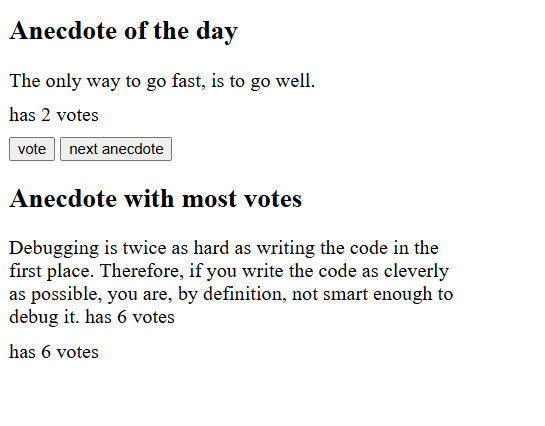
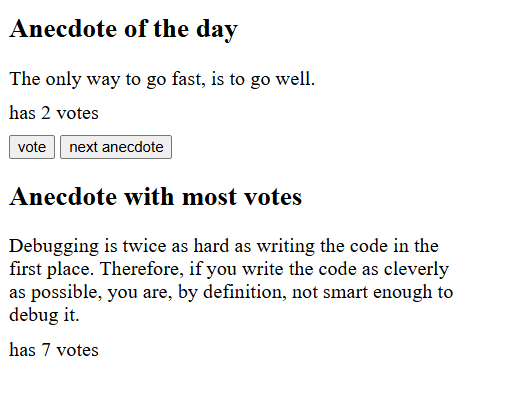
small fix to anecdotes

diff --git a/part1/anecdotes/src/App.jsx b/part1/anecdotes/src/App.jsx
@@ -53,7 +53,7 @@ const App = () => {
 
       {votes[mostVotedIndex] > 0 ? (
         <div>
-          <Text value={`${anecdotes[mostVotedIndex]} has ${votes[mostVotedIndex]} votes`} />
+          <Text value={`${anecdotes[mostVotedIndex]}`} />
           <Text value={`has ${votes[mostVotedIndex]} votes`} />
         </div>
       ) : (
